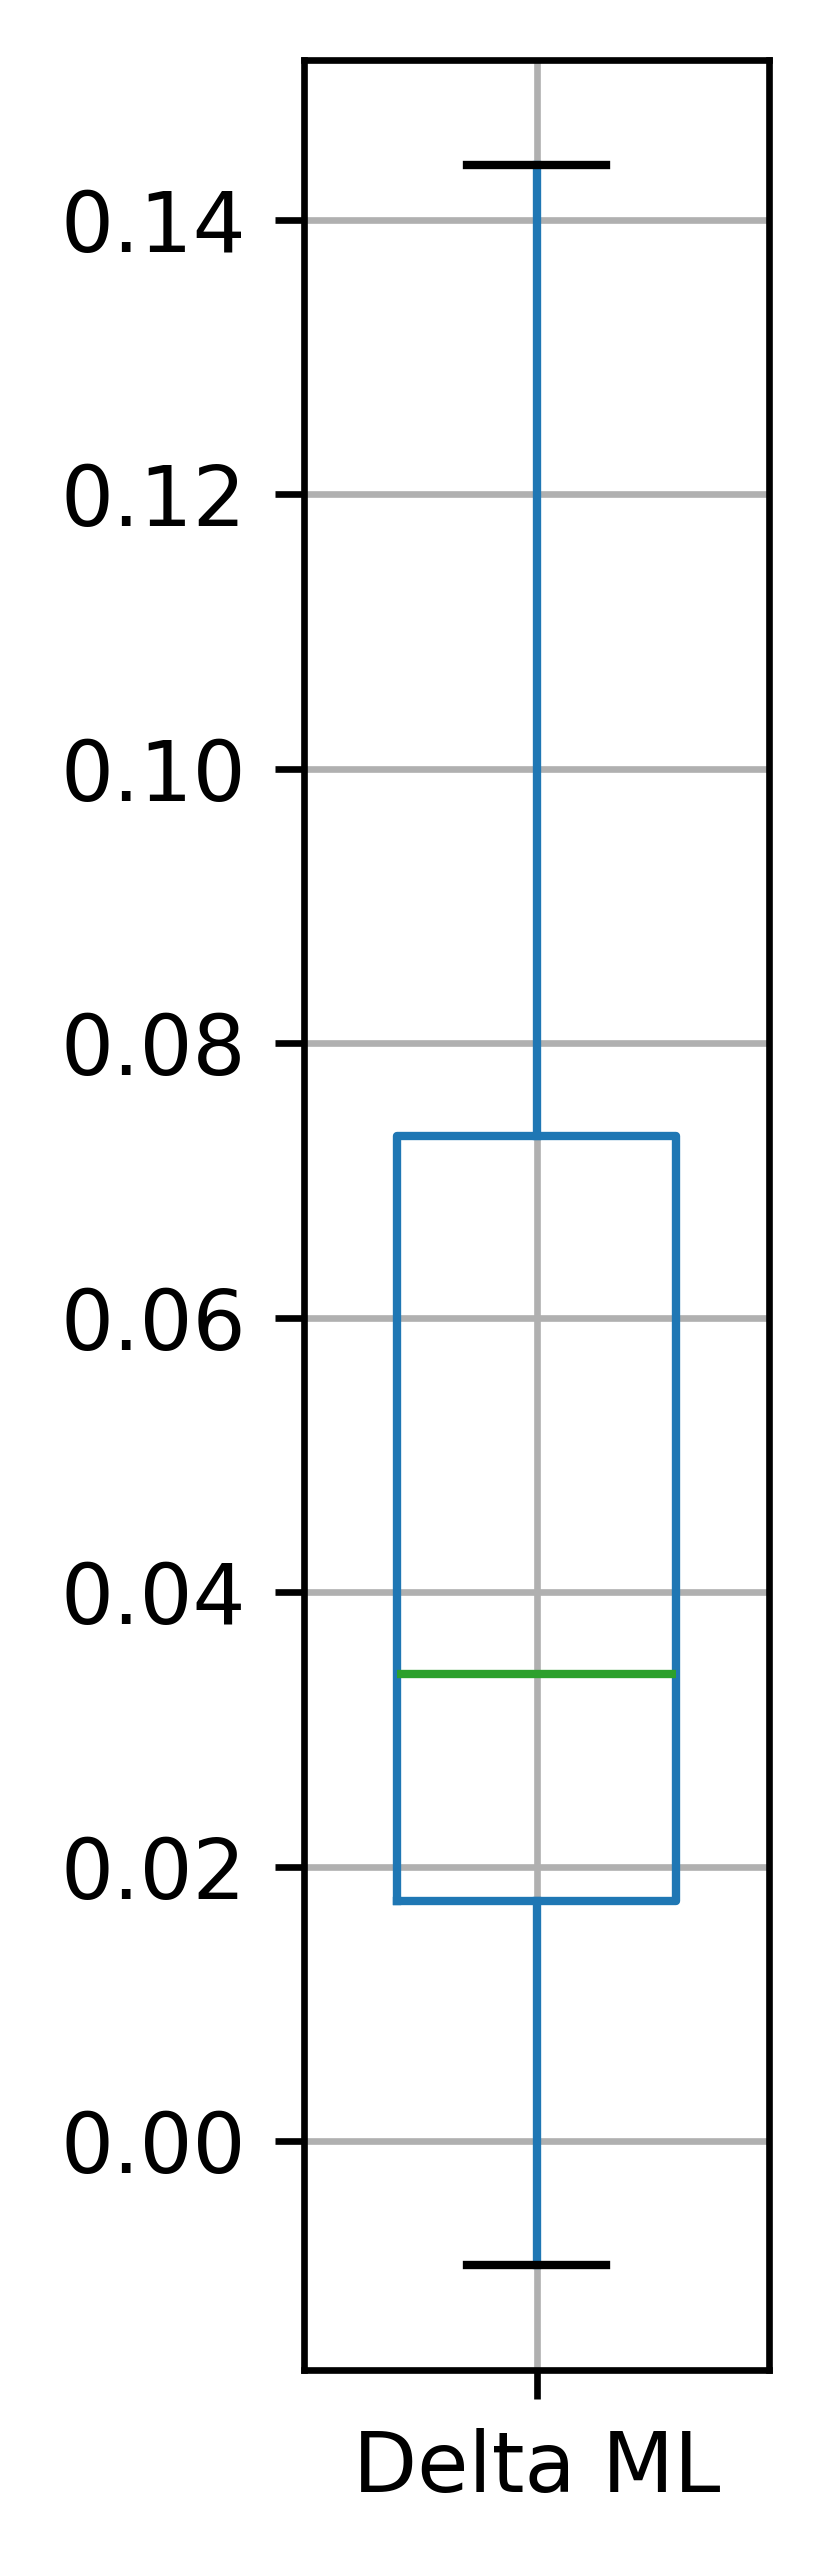
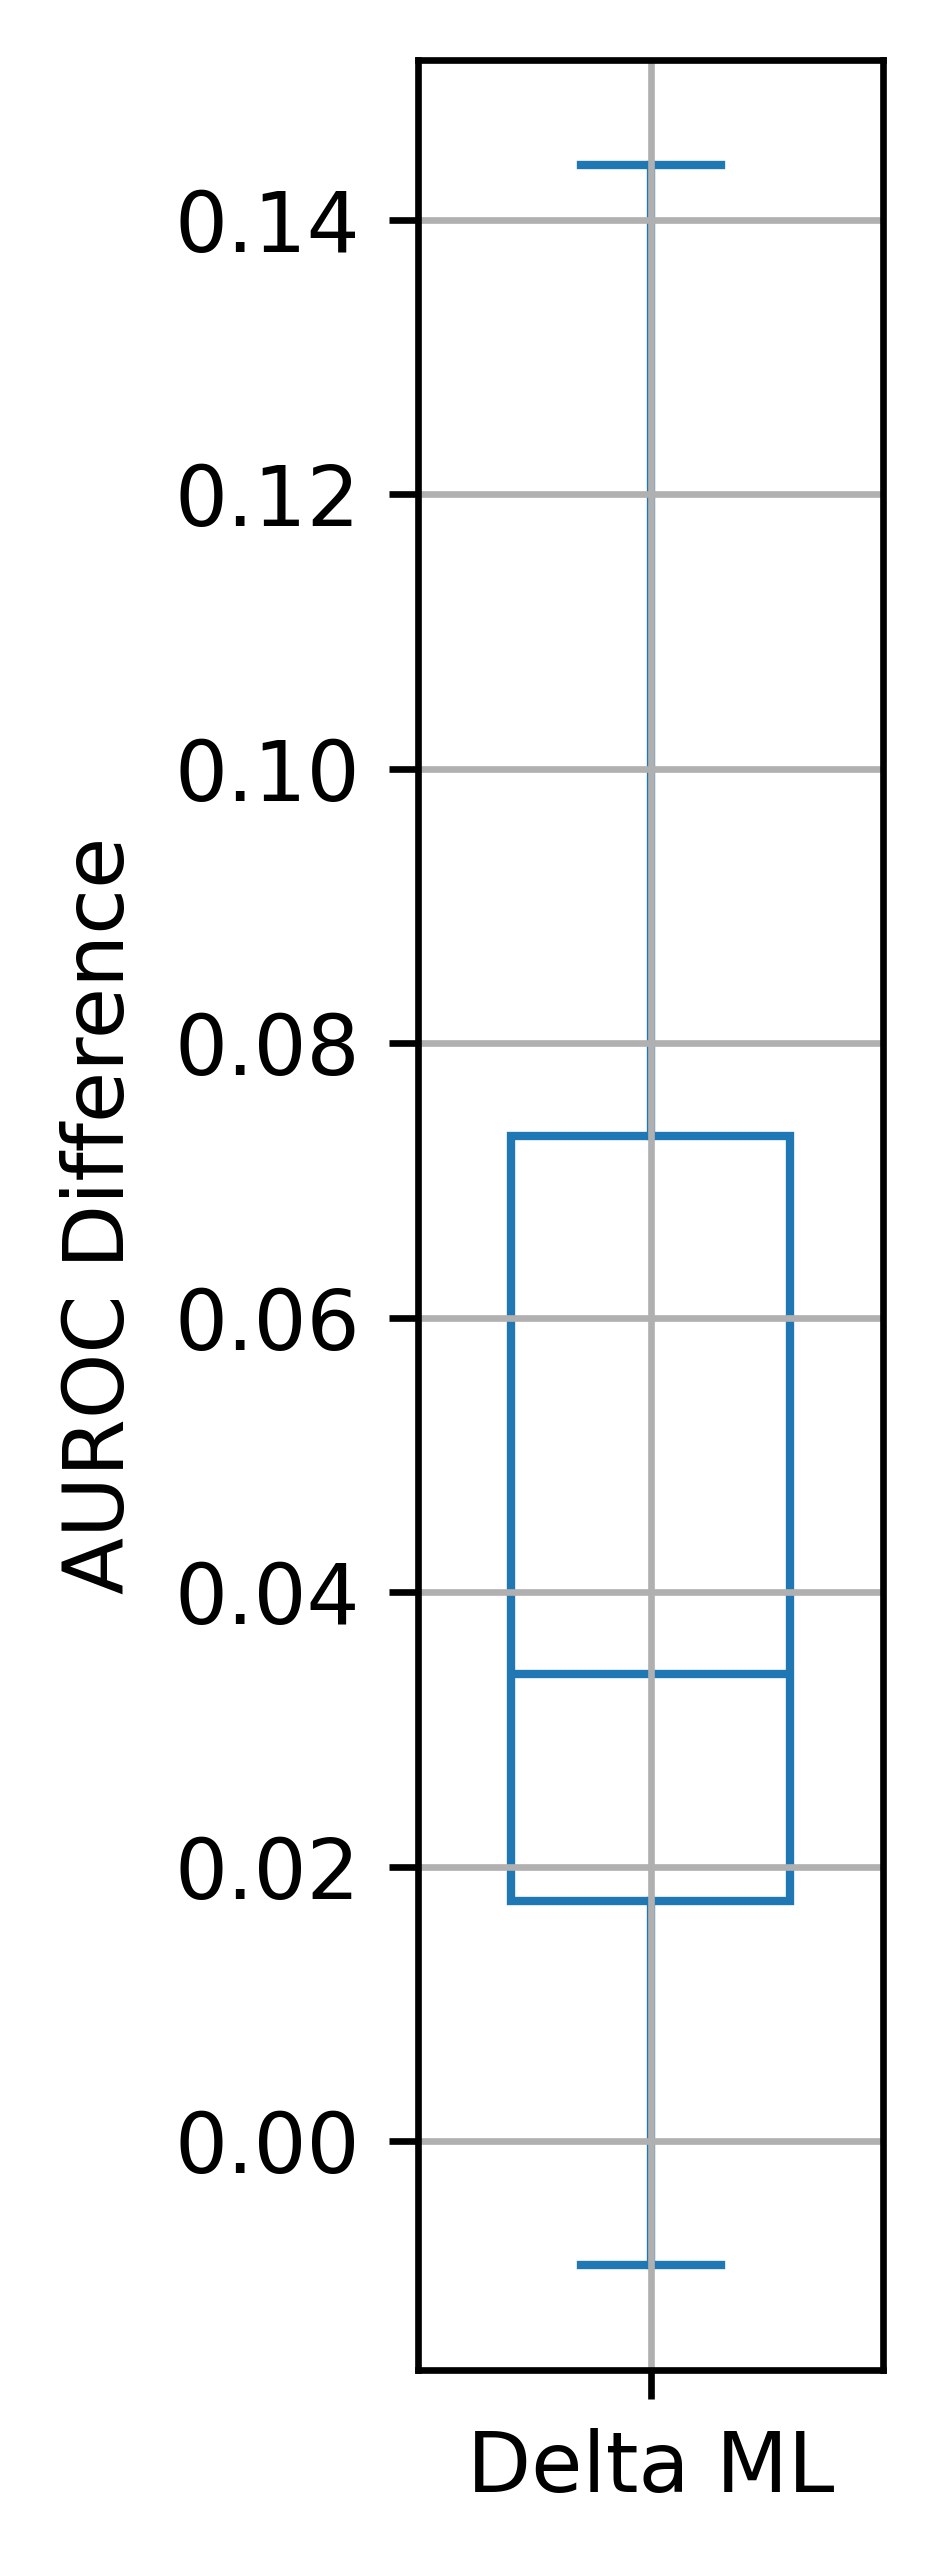
fix colors cv plots

diff --git a/scripts-for-cv-version/make_plots.py b/scripts-for-cv-version/make_plots.py
@@ -74,11 +74,13 @@ def plot_box_cv(df, labels, box_labels, title, filename_base):
                 capprops=dict(color=c),
                 whiskerprops=dict(color=c),
                 flierprops=dict(color=c, markeredgecolor=c),
-                medianprops=dict(color="#2ca02c"),
+                medianprops=dict(color=c),
                 zorder=0)
     ax.set_yticklabels(df.index)
 
     ax.scatter(df[labels[0]], range(1, len(df.index)+1), label=labels[0], color='red', zorder=1)
+
+    plt.xlabel("AUROC")
 
     
     #plt.xlim([0.5, 0.9])
@@ -93,7 +95,18 @@ def plot_box_cv(df, labels, box_labels, title, filename_base):
 
 def plot_box_delta(df, filename_base):
     plt.figure(figsize=(1, 5))
-    df.boxplot(column="Delta ML", widths=0.6)
+
+    c = "#1f77b4"
+    df.boxplot(column="Delta ML", labels=[""], widths=0.6,
+               patch_artist=True,
+                boxprops=dict(facecolor="white", color=c),
+                capprops=dict(color=c),
+                whiskerprops=dict(color=c),
+                flierprops=dict(color=c, markeredgecolor=c),
+                medianprops=dict(color=c),
+                zorder=0)
+    
+    plt.ylabel("AUROC Difference")
     plt.savefig(FIG_PATH+filename_base+".png", bbox_inches="tight", dpi=600)
                    
 
